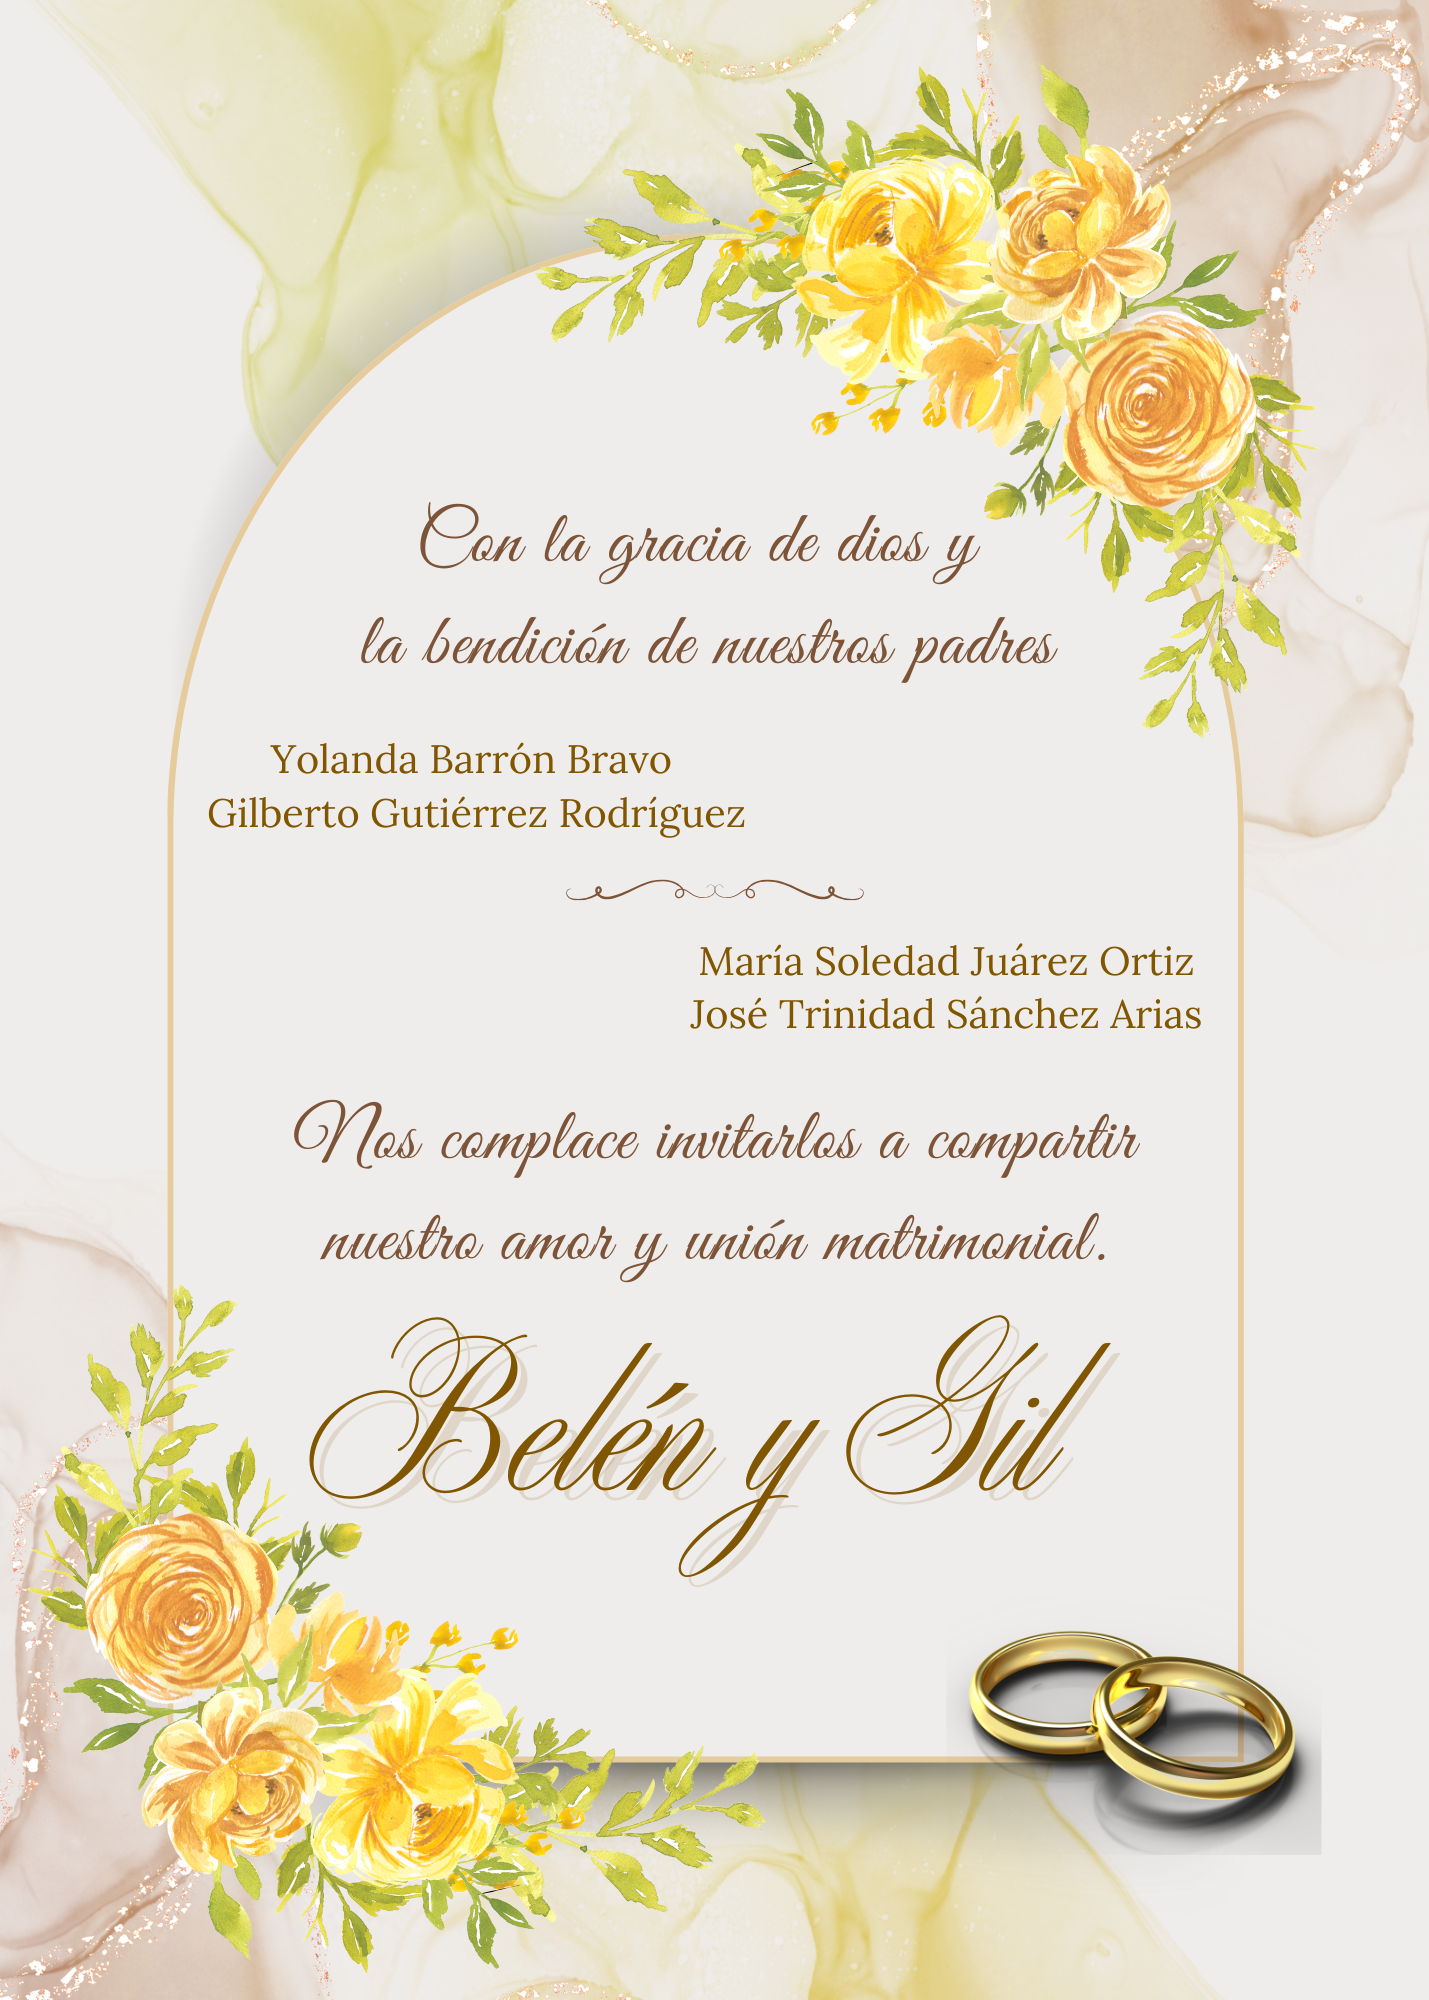
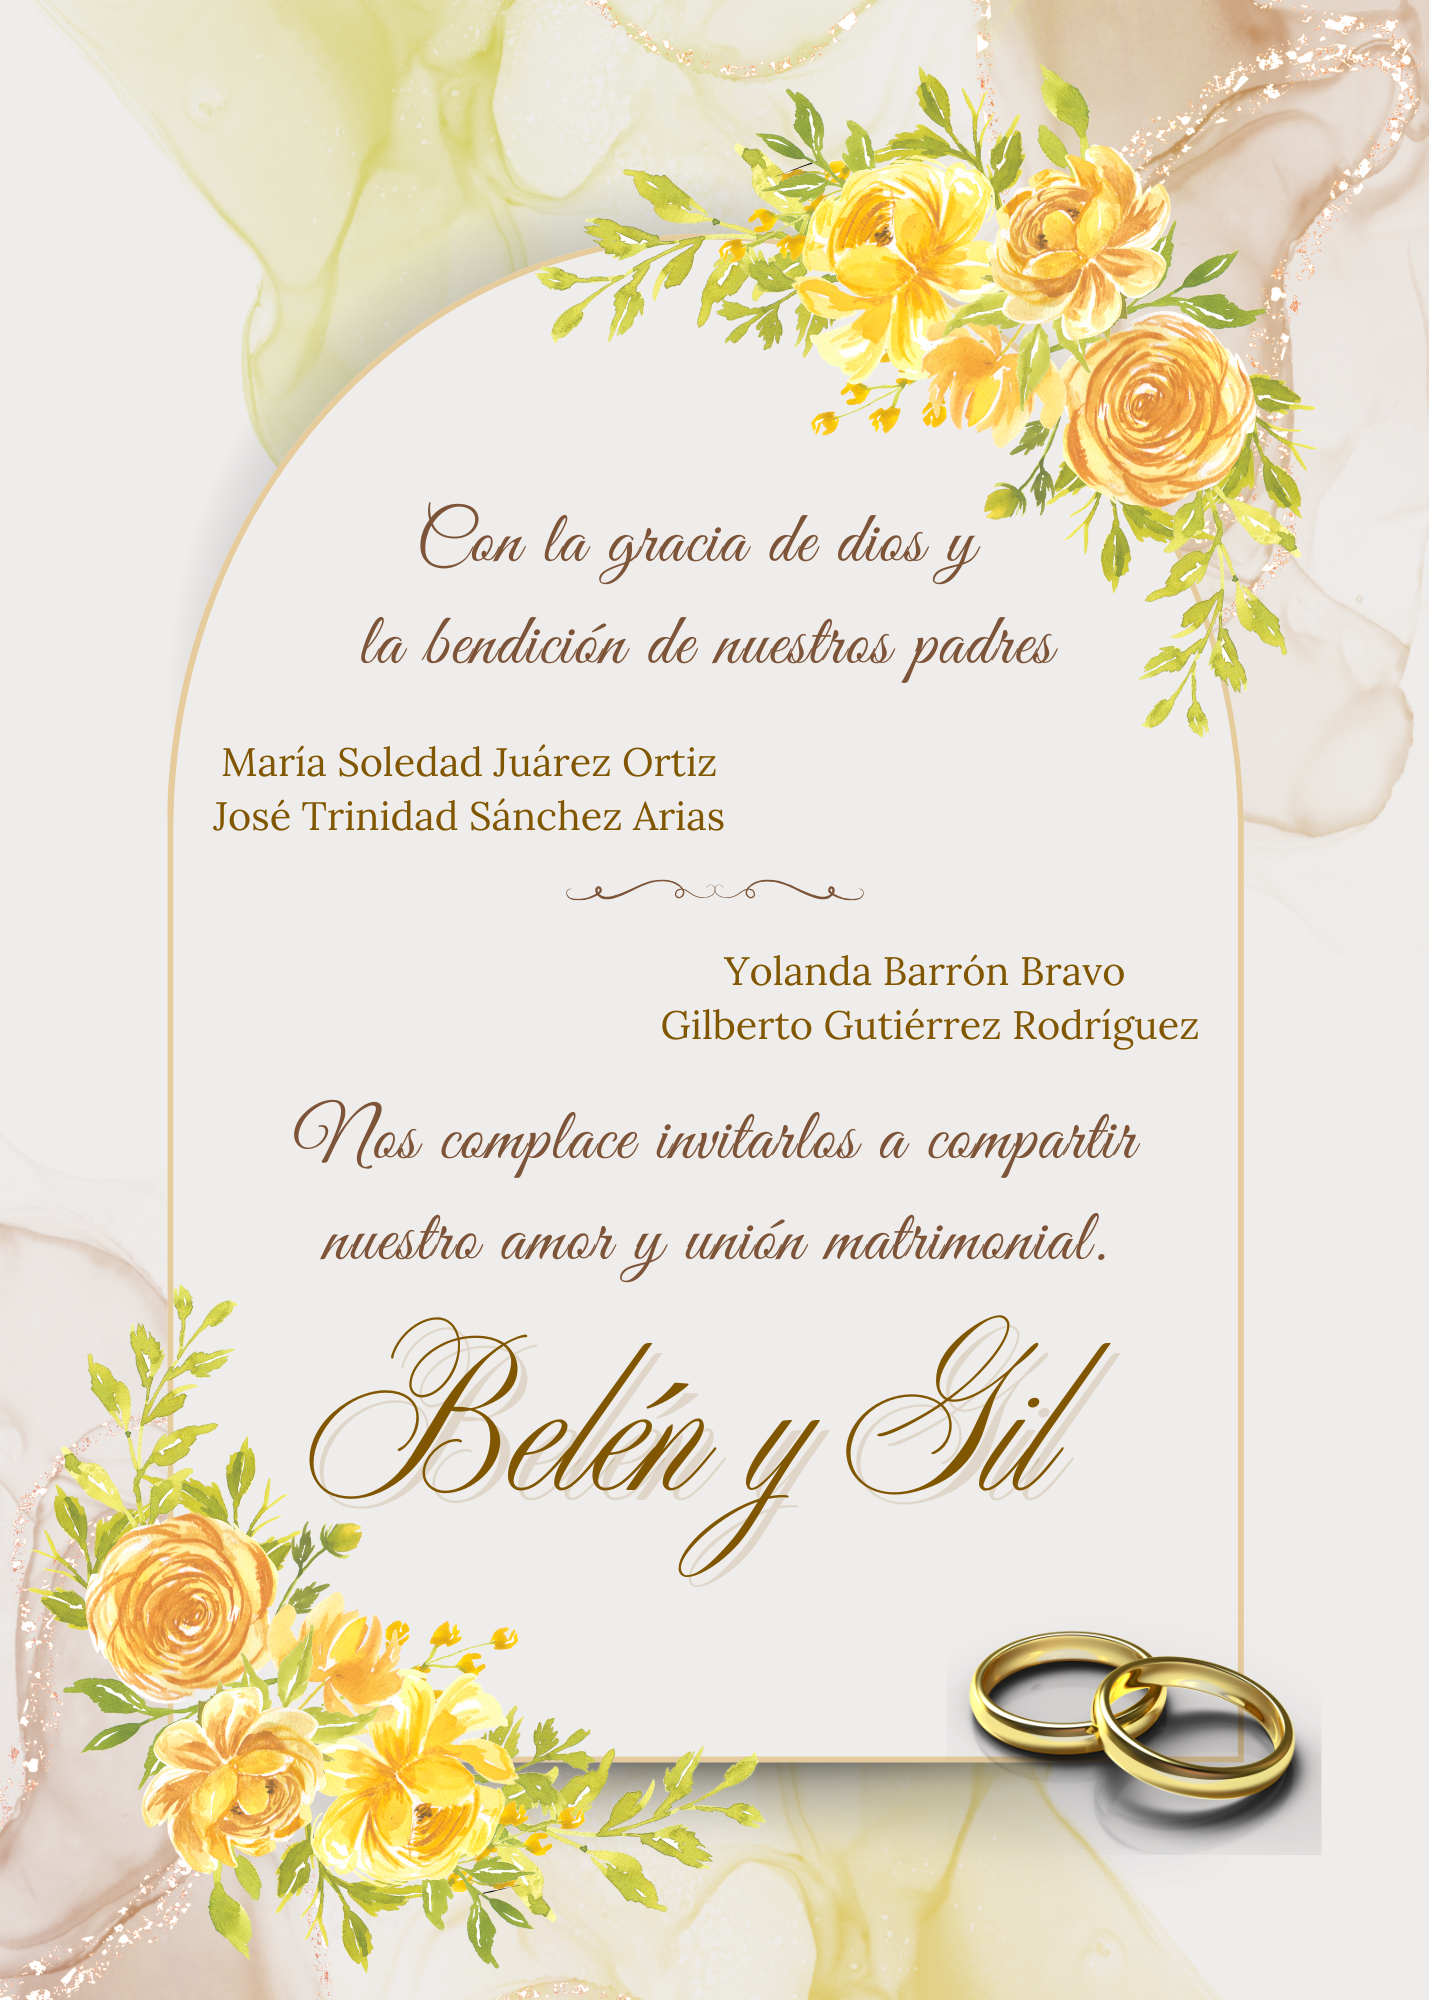
Finales

Changed region(s): [[0.4619, 0.465, 0.8314, 0.527], [0.154, 0.372, 0.5234, 0.434]]

diff --git a/src/components/WeddingInvitation.jsx b/src/components/WeddingInvitation.jsx
@@ -960,7 +960,7 @@ const WeddingInvitation = () => {
         </h3>
 
         <a
-          href="https://wa.me/524427491821?text=Hola%20😊%20Confirmo%20mi%20asistencia%20para%20acompa%C3%B1arlos%20en%20este%20evento%20tan%20especial%20y%20m%C3%A1gico.%20✨%F0%9F%92%9B"
+          href="https://wa.me/524423762369?text=Hola%20😊%20Confirmo%20mi%20asistencia%20para%20acompa%C3%B1arlos%20en%20este%20evento%20tan%20especial%20y%20m%C3%A1gico.%20✨%F0%9F%92%9B"
   target="_blank"
           rel="noopener noreferrer"
           className="
